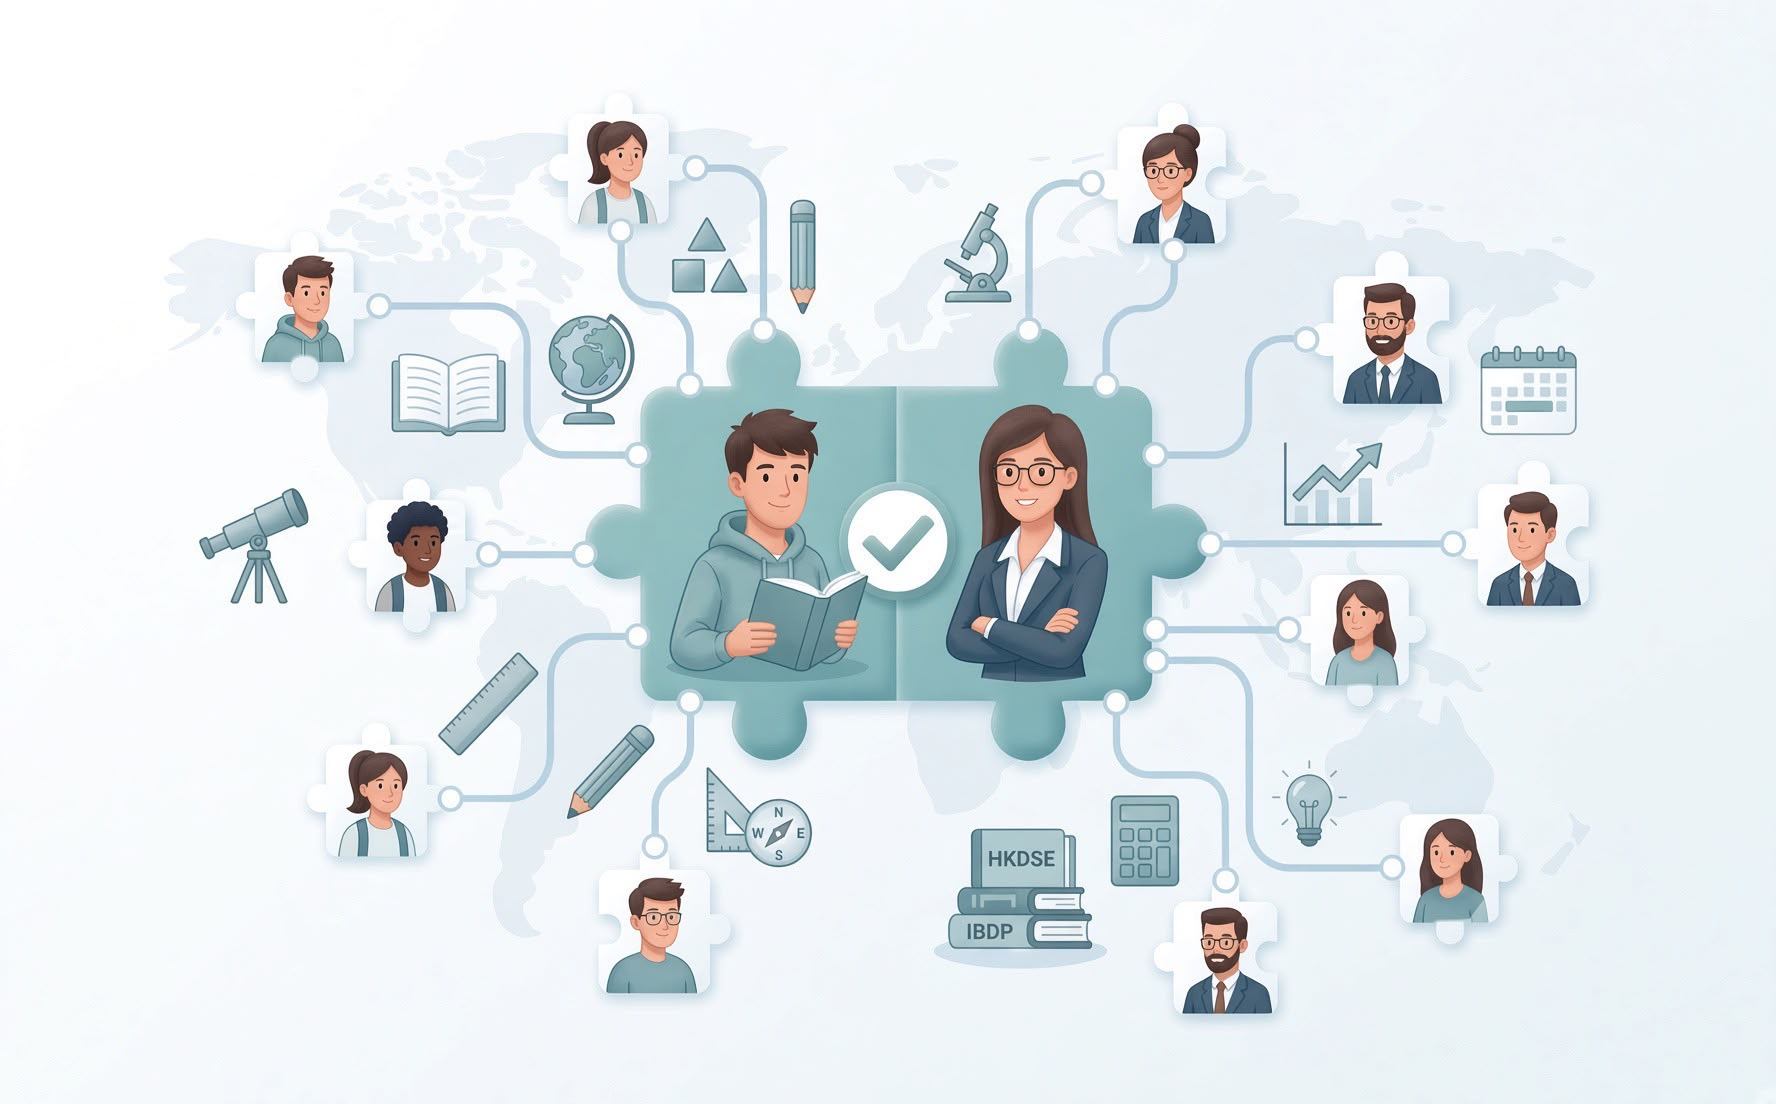
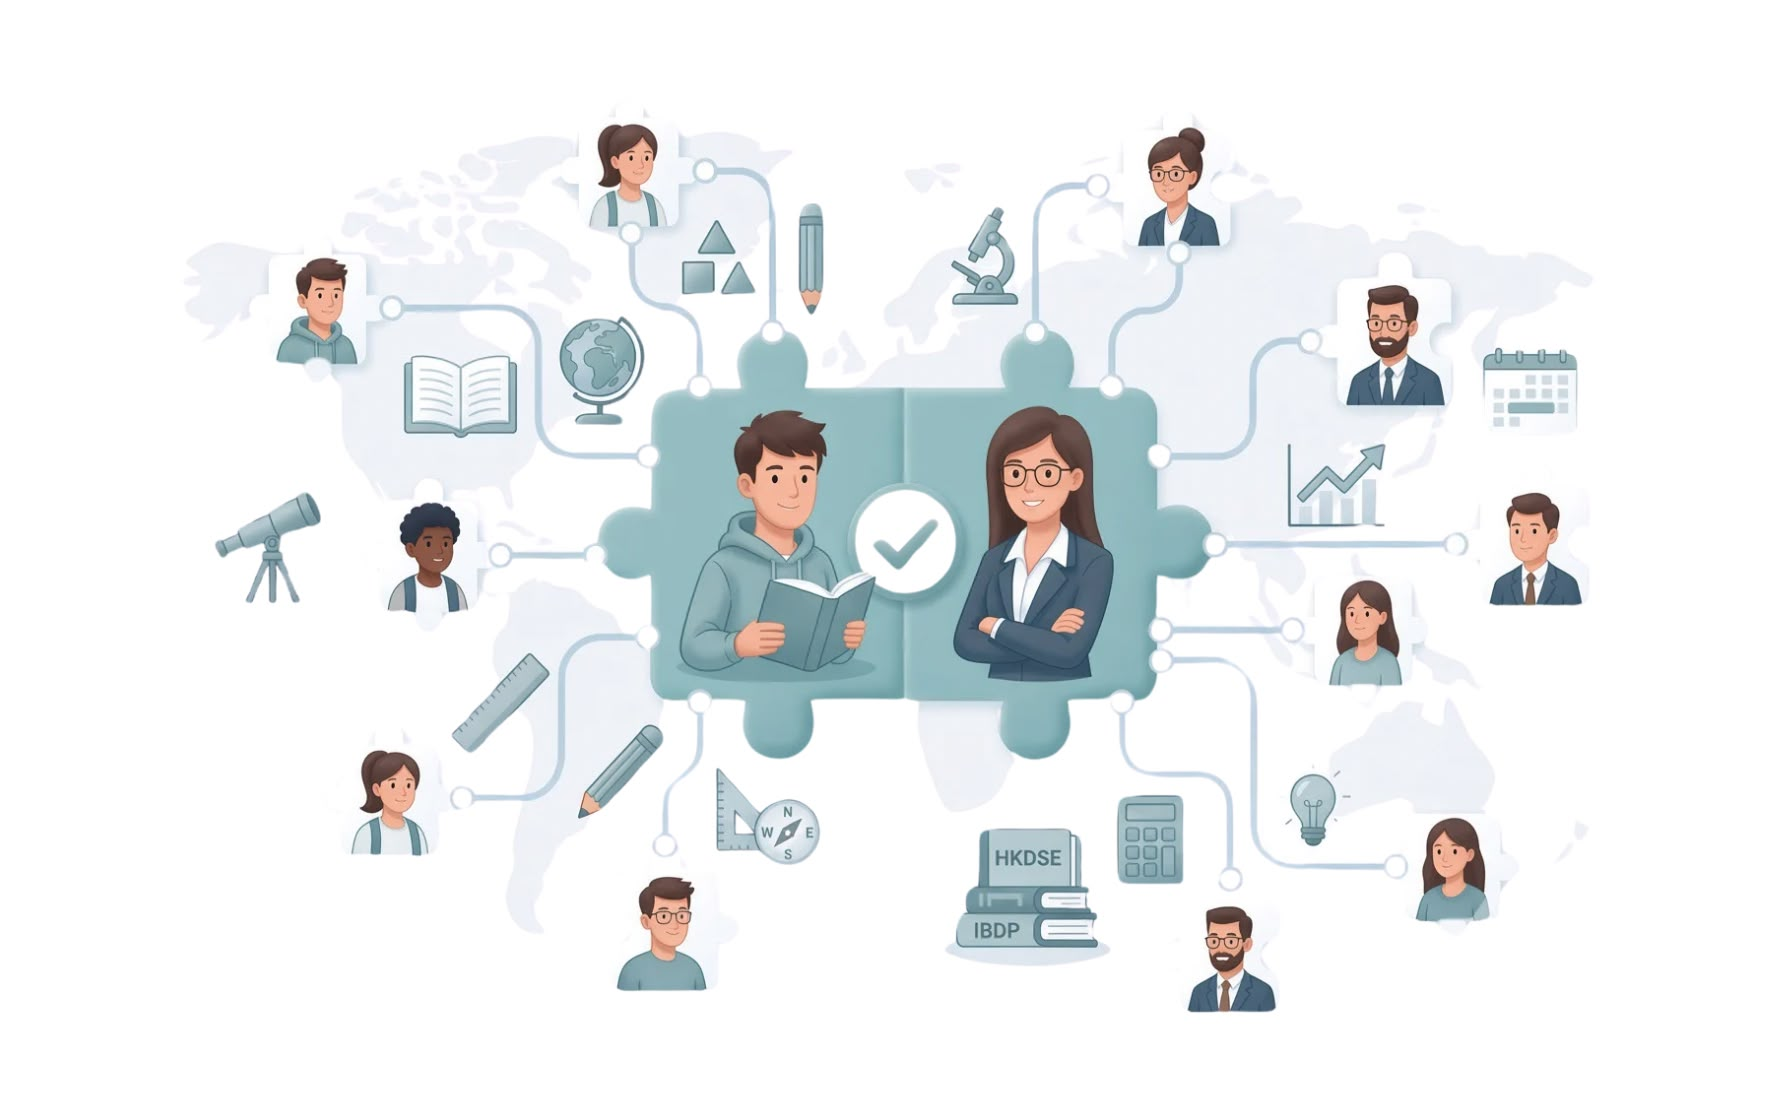
Updating tutor default image, Male / Female defaults

diff --git a/src/features/tutors/queries.ts b/src/features/tutors/queries.ts
@@ -34,6 +34,13 @@ export type Tutor = {
   exam_results: ExamResult[];
 };
 
+export type TutorPhotoDefaults = {
+  male: string | null;
+  female: string | null;
+};
+
+const TUTOR_PROFILE_DEFAULT_KEYS = ["default_tutor_profile_photo_male", "default_tutor_profile_photo_female"] as const;
+
 const SELECT_COLS =
   "id, display_name, headline, university, highschool, target_students, academic_summary, qualifications_summary, subjects, district, lesson_mode, hourly_rate, badge, bio, photo_url, tutor_code, is_published, education, experience_years, teaching_since, languages, exam_results, gender";
 
@@ -63,14 +70,56 @@ async function withTutorSelectFallback<T>(
   return (second.data ?? ([] as unknown as T));
 }
 
-function normalize(row: Record<string, unknown>): Tutor {
+async function fetchTutorPhotoDefaults(): Promise<TutorPhotoDefaults> {
+  const { data, error } = await supabase
+    .from("app_settings")
+    .select("key, value")
+    .in("key", TUTOR_PROFILE_DEFAULT_KEYS as unknown as string[]);
+
+  if (error) throw error;
+
+  const defaults: TutorPhotoDefaults = { male: null, female: null };
+  for (const row of data ?? []) {
+    const value = row.value;
+    if (typeof value === "string" && value.trim()) {
+      if (row.key === "default_tutor_profile_photo_male") defaults.male = value.trim();
+      if (row.key === "default_tutor_profile_photo_female") defaults.female = value.trim();
+    }
+  }
+  return defaults;
+}
+
+function resolveTutorPhotoUrl(
+  row: Pick<Tutor, "photo_url" | "gender">,
+  defaults: TutorPhotoDefaults,
+): string | null {
+  const photoUrl = typeof row.photo_url === "string" ? row.photo_url.trim() : "";
+  if (photoUrl) return photoUrl;
+
+  const gender = (row.gender ?? "").toLowerCase();
+  if (gender === "male") return defaults.male;
+  if (gender === "female") return defaults.female;
+  return null;
+}
+
+function normalize(row: Record<string, unknown>, defaults: TutorPhotoDefaults = { male: null, female: null }): Tutor {
   const edu = Array.isArray(row.education) ? (row.education as Education[]) : [];
   const exams = normalizeExamResults(row.exam_results);
   const targetStudents = Array.isArray(row.target_students)
     ? (row.target_students as unknown[]).filter((value): value is string => typeof value === "string" && value.trim().length > 0)
     : [];
+
+  const resolvedPhotoUrl = resolveTutorPhotoUrl(
+    {
+      photo_url: typeof row.photo_url === "string" ? row.photo_url : null,
+      gender: typeof row.gender === "string" ? row.gender : null,
+    },
+    defaults,
+  );
+
   return {
     ...(row as unknown as Tutor),
+    photo_url: resolvedPhotoUrl,
     university: typeof row.university === "string" ? row.university : null,
     highschool: typeof row.highschool === "string" ? row.highschool : null,
     academic_summary: typeof row.academic_summary === "string" ? row.academic_summary : null,
@@ -90,6 +139,7 @@ export function getTutorGenderLabel(gender: string | null | undefined): string {
 }
 
 export async function fetchTopWeeklyTutors(limit = 3): Promise<Tutor[]> {
+  const defaults = await fetchTutorPhotoDefaults();
   const data = await withTutorSelectFallback<Record<string, unknown>[]>((selectCols) =>
     supabase
       .from("tutors")
@@ -98,10 +148,11 @@ export async function fetchTopWeeklyTutors(limit = 3): Promise<Tutor[]> {
       .order("created_at", { ascending: false })
       .limit(limit),
   );
-  return (data ?? []).map(normalize);
+  return (data ?? []).map((row) => normalize(row, defaults));
 }
 
 export async function fetchPublishedTutors(): Promise<Tutor[]> {
+  const defaults = await fetchTutorPhotoDefaults();
   const data = await withTutorSelectFallback<Record<string, unknown>[]>((selectCols) =>
     supabase
       .from("tutors")
@@ -109,17 +160,19 @@ export async function fetchPublishedTutors(): Promise<Tutor[]> {
       .eq("is_published", true)
       .order("created_at", { ascending: false }),
   );
-  return (data ?? []).map(normalize);
+  return (data ?? []).map((row) => normalize(row, defaults));
 }
 
 export async function fetchAllTutors(): Promise<Tutor[]> {
+  const defaults = await fetchTutorPhotoDefaults();
   const data = await withTutorSelectFallback<Record<string, unknown>[]>((selectCols) =>
     supabase.from("tutors").select(selectCols).order("created_at", { ascending: false }),
   );
-  return (data ?? []).map(normalize);
+  return (data ?? []).map((row) => normalize(row, defaults));
 }
 
 export async function fetchTutorByCode(code: string): Promise<Tutor | null> {
+  const defaults = await fetchTutorPhotoDefaults();
   const data = await withTutorSelectFallback<Record<string, unknown> | null>((selectCols) =>
     supabase
       .from("tutors")
@@ -128,7 +181,7 @@ export async function fetchTutorByCode(code: string): Promise<Tutor | null> {
       .eq("is_published", true)
       .maybeSingle(),
   );
-  return data ? normalize(data as Record<string, unknown>) : null;
+  return data ? normalize(data as Record<string, unknown>, defaults) : null;
 }
 
 export function getTutorLessonModeLabel(mode: Tutor["lesson_mode"]): string {

diff --git a/src/routes/_authenticated.admin.r2.tsx b/src/routes/_authenticated.admin.r2.tsx
@@ -12,6 +12,7 @@ import { useAuth } from "@/features/auth/useAuth";
 import {
   deleteTutorProfileImage,
   listTutorProfileImages,
+  setDefaultTutorProfileImage,
   uploadTutorProfileImage,
   type R2TutorImage,
 } from "@/features/tutors/r2.functions";
@@ -51,6 +52,7 @@ function AdminR2Images() {
   const listFn = useServerFn(listTutorProfileImages);
   const uploadFn = useServerFn(uploadTutorProfileImage);
   const deleteFn = useServerFn(deleteTutorProfileImage);
+  const setDefaultFn = useServerFn(setDefaultTutorProfileImage);
 
   useEffect(() => {
     if (!loading && !hasAnyRole(["admin", "super_admin"])) {
@@ -95,6 +97,21 @@ function AdminR2Images() {
     onSuccess: async () => {
       toast.success("Image deleted");
       await queryClient.invalidateQueries({ queryKey: ["admin", "r2", "tutor-images"] });
+      await refetch();
+    },
+    onError: (error: Error) => toast.error(error.message),
+  });
+
+  const setDefault = useMutation({
+    mutationFn: async ({ key, gender }: { key: string; gender: "male" | "female" }) => {
+      return setDefaultFn({ data: { key, gender } });
+    },
+    onSuccess: async (_, { gender }) => {
+      toast.success(
+        gender === "male" ? "Default male profile image updated" : "Default female profile image updated",
+      );
+      await queryClient.invalidateQueries({ queryKey: ["admin", "r2", "tutor-images"] });
+      await queryClient.invalidateQueries({ queryKey: ["tutors"] });
       await refetch();
     },
     onError: (error: Error) => toast.error(error.message),
@@ -206,6 +223,26 @@ function AdminR2Images() {
                             <ExternalLink className="mr-1.5 h-3.5 w-3.5" />
                             Open
                           </a>
+                        </Button>
+                        <Button
+                          type="button"
+                          size="sm"
+                          variant="secondary"
+                          className="h-8"
+                          disabled={setDefault.isPending}
+                          onClick={() => setDefault.mutate({ key: item.key, gender: "male" })}
+                        >
+                          Male default
+                        </Button>
+                        <Button
+                          type="button"
+                          size="sm"
+                          variant="secondary"
+                          className="h-8"
+                          disabled={setDefault.isPending}
+                          onClick={() => setDefault.mutate({ key: item.key, gender: "female" })}
+                        >
+                          Female default
                         </Button>
                         <Button
                           type="button"

diff --git a/src/features/tutors/r2.functions.ts b/src/features/tutors/r2.functions.ts
@@ -202,6 +202,11 @@ const DeleteInput = z.object({
   key: z.string().trim().min(1).max(500),
 });
 
+const SetDefaultTutorProfileImageInput = z.object({
+  key: z.string().trim().min(1).max(500),
+  gender: z.enum(["male", "female"]),
+});
+
 async function assertAdmin(supabase: unknown, userId: string) {
   const roles: Array<"admin" | "super_admin"> = ["admin", "super_admin"];
   const client = supabase as {
@@ -316,4 +321,22 @@ export const deleteTutorProfileImage = createServerFn({ method: "POST" })
     if (!response.ok) throw new Error(await parseCloudflareError(response));
 
     return { ok: true };
+  });
+
+export const setDefaultTutorProfileImage = createServerFn({ method: "POST" })
+  .middleware([requireSupabaseAuth])
+  .inputValidator((data: unknown) => SetDefaultTutorProfileImageInput.parse(data))
+  .handler(async ({ data, context }) => {
+    await assertAdmin(context.supabase, context.userId);
+
+    const config = getR2Config();
+    const url = buildPublicUrl(config.publicBaseUrl, data.key);
+    const settingKey = data.gender === "male" ? "default_tutor_profile_photo_male" : "default_tutor_profile_photo_female";
+    const { error } = await context.supabase
+      .from("app_settings")
+      .upsert([{ key: settingKey, value: url }], { onConflict: "key" });
+
+    if (error) throw new Error(error.message || "Failed to update default profile image");
+
+    return { ok: true, key: settingKey, url };
   });
